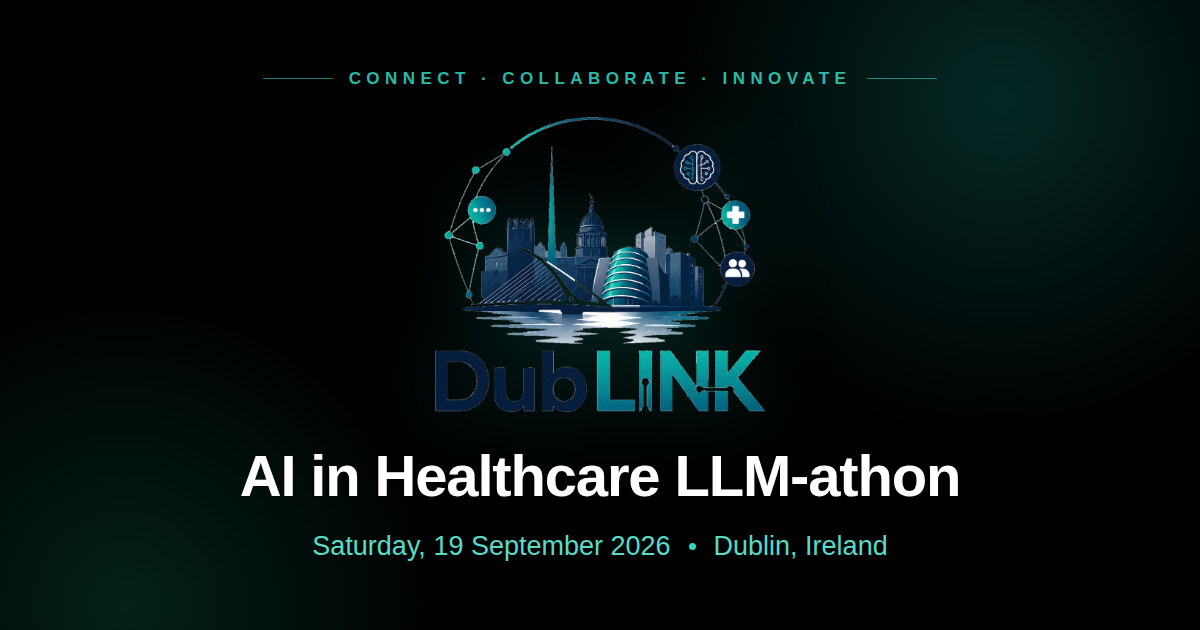
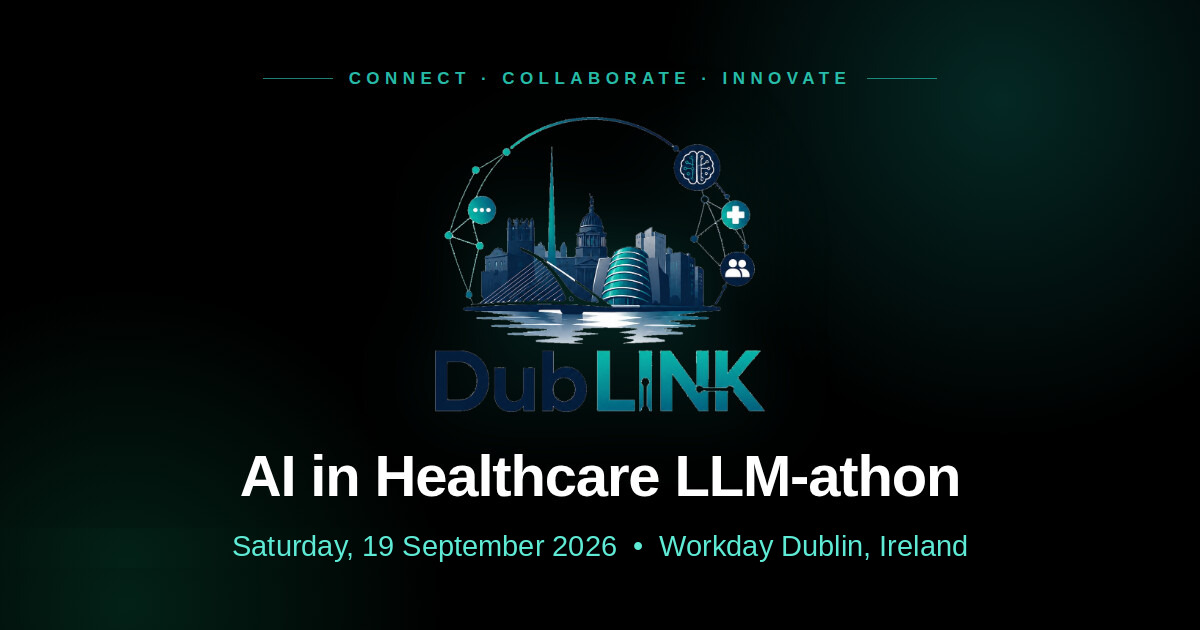
Add team LinkedIn links and name Workday as the venue
Committee and Speakers cards gain an optional linkedin field, rendered
as an icon beside the name. Ezi Ozoani drops the "Dr" prefix and Muhammad
Ali's bio now names RCSI.

Workday Dublin is now the stated location in the hero info bar, the page
and layout descriptions, and the OG/Twitter card text. The og-image
subtitle was redrawn in place to match.

Changed region(s): [[0.185, 0.8444, 0.8017, 0.9048]]

diff --git a/app/(home)/Committee.tsx b/app/(home)/Committee.tsx
@@ -1,4 +1,5 @@
 import Image from 'next/image';
+import { LinkedInIcon } from '@/components/common/social-icons';
 
 const committee: {
 	name: string;
@@ -7,12 +8,14 @@ const committee: {
 	photoPosition?: string;
 	initials: string;
 	role: string;
+	linkedin?: string;
 }[] = [
 	{
 		name: 'Dr Leo Anthony Celi',
 		title: 'Clinical Advisor',
 		photo: '/dublin/team/leo-celi.jpg',
 		initials: 'LC',
+		linkedin: 'https://www.linkedin.com/in/leo-anthony-celi-b25131/',
 		role: 'Advises on the clinical direction of the programme, drawing on years of datathons organised with MIT Critical Data around the world.',
 	},
 	{
@@ -20,13 +23,15 @@ const committee: {
 		title: 'Workshop Lead',
 		photo: '/dublin/team/sebastian-cajas.png',
 		initials: 'SC',
+		linkedin: 'https://www.linkedin.com/in/sebasmos777/',
 		role: 'Researcher and technologist working at the intersection of human and AI systems, with a focus on generative AI in healthcare. Drives the vision behind DubLINK and brings that perspective to the design and technical delivery of the day’s programme.',
 	},
 	{
-		name: 'Dr Ezi Ozoani',
+		name: 'Ezi Ozoani',
 		title: 'AI Ethics & Implementation',
 		photo: '/dublin/team/ezi-ozoani.webp',
 		initials: 'EO',
+		linkedin: 'https://www.linkedin.com/in/ezi-ozoani/',
 		role: 'AI researcher and innovation specialist focused on how AI is implemented responsibly. Ensures ethics and multidisciplinary collaboration are built into every part of the day.',
 	},
 	{
@@ -36,6 +41,7 @@ const committee: {
 		// Portrait crop: keep the face centred in the circular avatar
 		photoPosition: 'object-[center_22%]',
 		initials: 'TT',
+		linkedin: 'https://www.linkedin.com/in/tamas-tiszai-szucs-280930102/',
 		role: 'Consultant Intensivist and Quality & Audit Lead at the host venue. Focused on AI, patient safety and human factors in clinical practice.',
 	},
 	{
@@ -45,7 +51,8 @@ const committee: {
 		// Face sits in the lower half of the frame
 		photoPosition: 'object-[center_68%]',
 		initials: 'MA',
-		role: 'Researcher and educator in artificial intelligence and digital health. Leads the design of the day’s workshops and scientific content, shaping the clinical scenarios participants will work through.',
+		role: 'Researcher and educator in AI and digital health at the Royal College of Surgeons in Ireland. Leads the design of the day’s workshops and scientific content, shaping the clinical scenarios participants will work through.',
+		linkedin: 'https://www.linkedin.com/in/m-ali-0112/',
 	},
 ];
 
@@ -102,9 +109,22 @@ export default function Committee() {
 									</div>
 								)}
 								<div>
-									<h3 className="text-base sm:text-lg font-bold text-white tracking-tight leading-tight">
-										{member.name}
-									</h3>
+									<div className="flex items-center gap-2">
+										<h3 className="text-base sm:text-lg font-bold text-white tracking-tight leading-tight">
+											{member.name}
+										</h3>
+										{member.linkedin && (
+											<a
+												href={member.linkedin}
+												target="_blank"
+												rel="noopener noreferrer"
+												aria-label={`${member.name} on LinkedIn`}
+												className="shrink-0 text-white/40 hover:text-teal-300 transition-colors"
+											>
+												<LinkedInIcon className="h-4 w-4" />
+											</a>
+										)}
+									</div>
 									<p className="mt-0.5 text-xs sm:text-sm font-medium text-teal-300/80">
 										{member.title}
 									</p>

diff --git a/app/(home)/Speakers.tsx b/app/(home)/Speakers.tsx
@@ -1,10 +1,18 @@
 import Image from 'next/image';
+import { LinkedInIcon } from '@/components/common/social-icons';
 
-const speakers = [
+const speakers: {
+	name: string;
+	photo: string;
+	role: string;
+	bio: string;
+	linkedin?: string;
+}[] = [
 	{
 		name: 'Dr Leo Anthony Celi',
 		photo: '/dublin/speakers/leo-celi.jpg',
 		role: 'Beth Israel Deaconess Medical Center · Harvard Medical School · MIT',
+		linkedin: 'https://www.linkedin.com/in/leo-anthony-celi-b25131/',
 		bio: 'Intensivist at Beth Israel Deaconess Medical Center, Harvard Medical School, and Senior Research Scientist at MIT. Internationally recognised for his work in critical care, health data science, open science and responsible AI implementation.',
 	},
 	{
@@ -58,9 +66,22 @@ export default function Speakers() {
 								<div className="absolute inset-0 bg-gradient-to-t from-black/70 via-transparent to-transparent" />
 							</div>
 							<div className="p-7">
-								<h3 className="text-2xl font-bold text-white tracking-tight">
-									{speaker.name}
-								</h3>
+								<div className="flex items-center gap-2.5">
+									<h3 className="text-2xl font-bold text-white tracking-tight">
+										{speaker.name}
+									</h3>
+									{speaker.linkedin && (
+										<a
+											href={speaker.linkedin}
+											target="_blank"
+											rel="noopener noreferrer"
+											aria-label={`${speaker.name} on LinkedIn`}
+											className="shrink-0 text-white/40 hover:text-teal-300 transition-colors"
+										>
+											<LinkedInIcon className="h-5 w-5" />
+										</a>
+									)}
+								</div>
 								<p className="mt-1 text-sm font-medium text-teal-300/80 tracking-wide">
 									{speaker.role}
 								</p>

diff --git a/app/(home)/page.tsx b/app/(home)/page.tsx
@@ -20,11 +20,11 @@ const OG_IMAGE = `${SITE_URL}/og-image.jpg`;
 export const metadata: Metadata = {
 	title: 'DubLINK AI in Healthcare LLM-athon, Dublin',
 	description:
-		'A one-day interactive LLM-athon exploring generative AI in healthcare. Saturday, 19 September 2026 Dublin, Ireland.',
+		'A one-day interactive LLM-athon exploring generative AI in healthcare. Saturday, 19 September 2026 at Workday Dublin, Smithfield, Dublin, Ireland.',
 	openGraph: {
 		title: 'DubLINK AI in Healthcare LLM-athon',
 		description:
-			'Connect. Collaborate. Innovate. Exploring LLMs in healthcare, 19 September 2026, Dublin.',
+			'Connect. Collaborate. Innovate. Exploring LLMs in healthcare, 19 September 2026 at Workday Dublin.',
 		type: 'website',
 		url: SITE_URL,
 		siteName: 'DubLINK',
@@ -33,7 +33,7 @@ export const metadata: Metadata = {
 				url: OG_IMAGE,
 				width: 1200,
 				height: 630,
-				alt: 'DubLINK AI in Healthcare LLM-athon, 19 September 2026, Dublin',
+				alt: 'DubLINK AI in Healthcare LLM-athon, 19 September 2026, Workday Dublin, Ireland',
 			},
 		],
 	},
@@ -41,7 +41,7 @@ export const metadata: Metadata = {
 		card: 'summary_large_image',
 		title: 'DubLINK AI in Healthcare LLM-athon',
 		description:
-			'Connect. Collaborate. Innovate. Exploring LLMs in healthcare, 19 September 2026, Dublin.',
+			'Connect. Collaborate. Innovate. Exploring LLMs in healthcare, 19 September 2026 at Workday Dublin.',
 		images: [OG_IMAGE],
 	},
 };

diff --git a/app/layout.tsx b/app/layout.tsx
@@ -16,7 +16,7 @@ export const metadata = {
 	metadataBase: new URL('https://criticaldata.github.io/website-dublin'),
 	title: 'DubLINK AI in Healthcare LLM-athon',
 	description:
-		'A one-day interactive educational event exploring Large Language Models and generative AI in healthcare. Saturday, 19 September 2026 in Dublin, Ireland.',
+		'A one-day interactive educational event exploring Large Language Models and generative AI in healthcare. Saturday, 19 September 2026 at Workday Dublin, Smithfield, Dublin, Ireland.',
 	icons: {
 		// ?v=2 busts the old (MIT-logo) favicon out of browser caches — favicons
 		// are cached per-URL, so a content change alone never shows up

diff --git a/app/(home)/Hero.tsx b/app/(home)/Hero.tsx
@@ -132,7 +132,7 @@ export default function Hero() {
 							</div>
 							<span className="hidden sm:inline h-4 w-px bg-white/20" />
 							<span className="text-sm text-white/85 font-medium tracking-wide">
-								 Dublin, Ireland
+								Workday Dublin, Ireland
 							</span>
 						</div>
 
